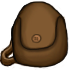
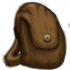
Adds upgraded images for Large pack from LaikoSoM Fixes named crossbows being invisible in the inventory

diff --git a/ReleaseNotes.md b/ReleaseNotes.md
@@ -1382,3 +1382,5 @@ Berserker, Crusader, Seer and Ranger begin at level 3 to make up for the harder 
 Crusader and Ranger have a 25% chance of being female 
 Fixes tooltip error from Freedom of Movement
 Fixes Pitchfork skills not working, they now effect wooden pitchforks as well 
+Adds upgraded images for Large pack from LaikoSoM
+Fixes named crossbows being invisible in the inventory 
